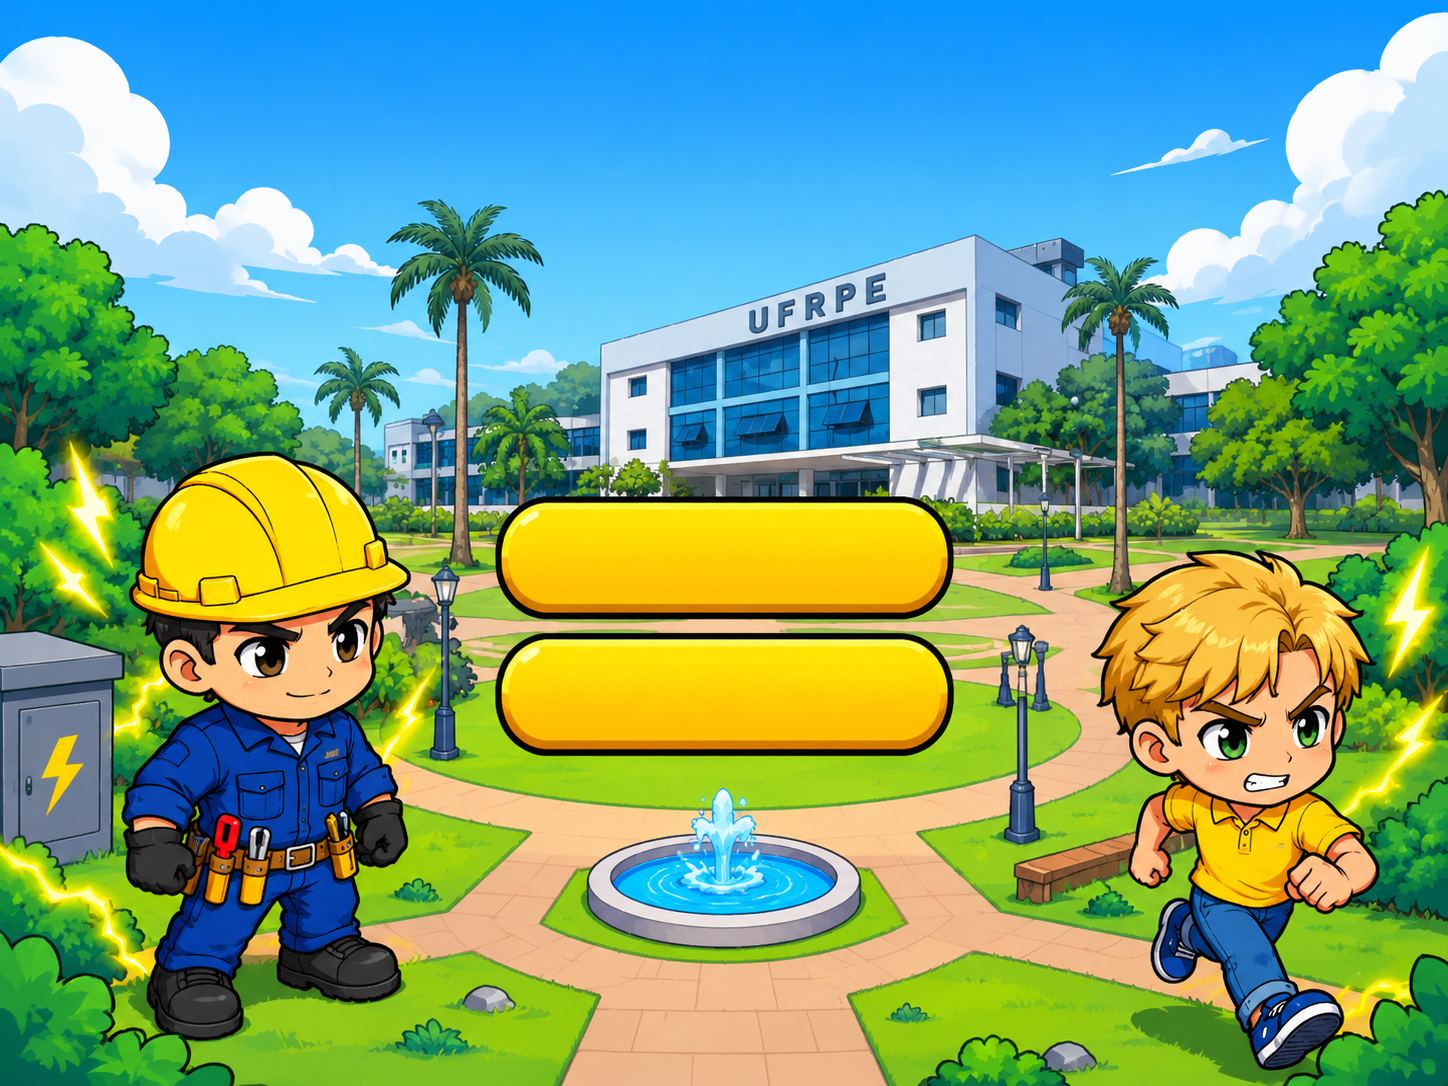
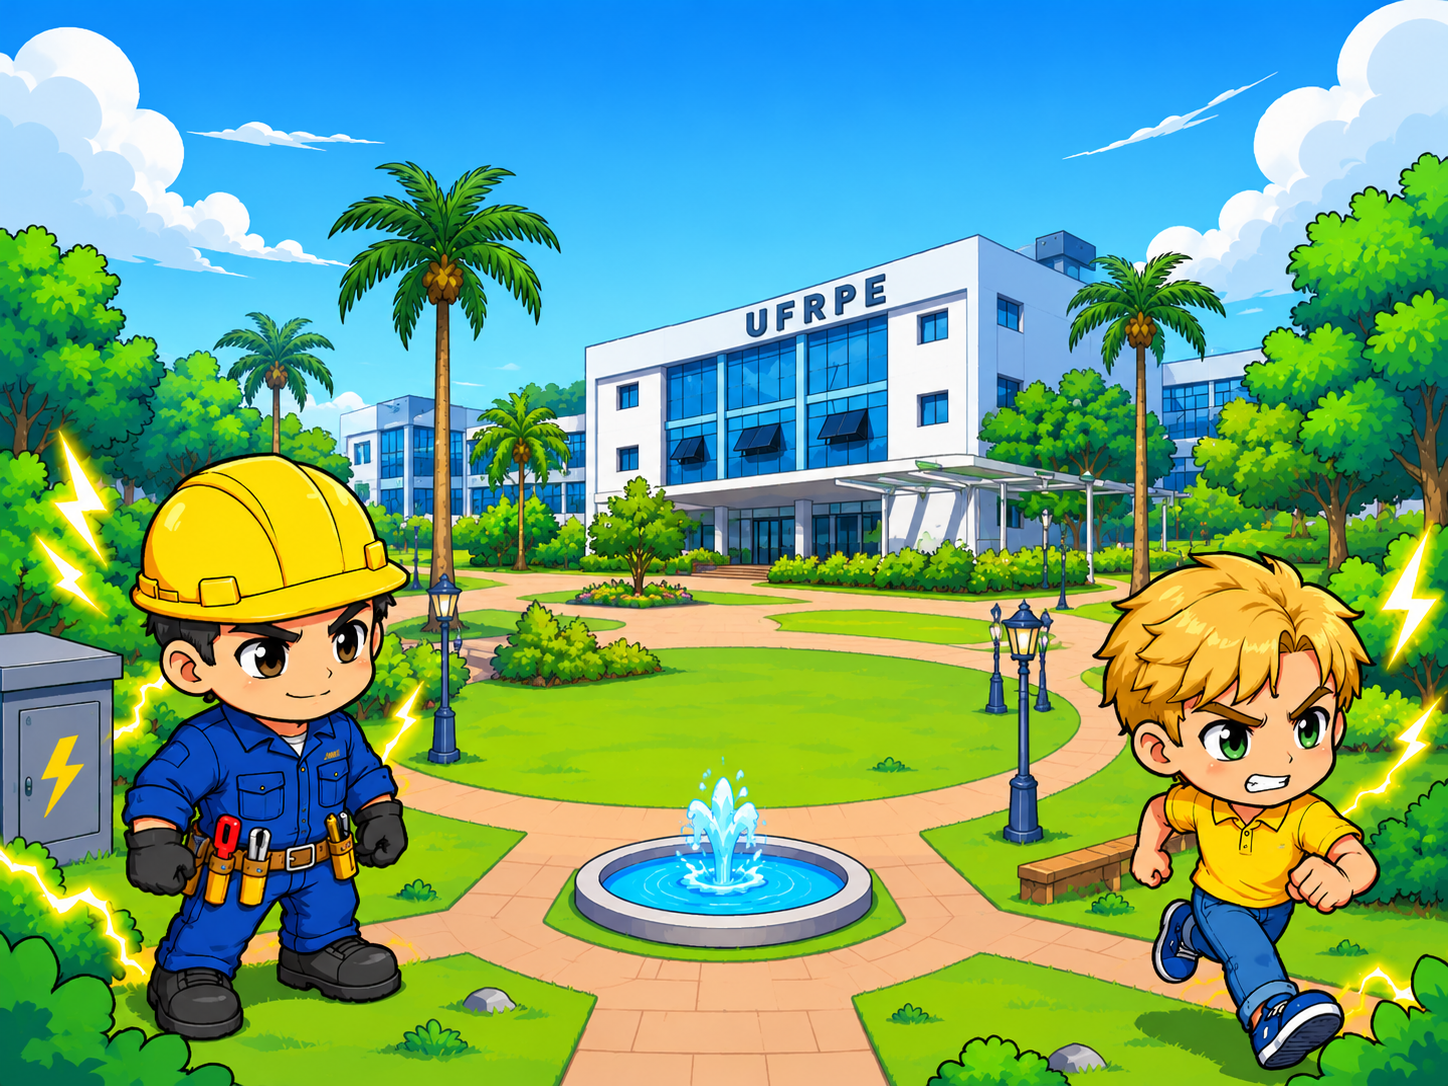
Fundo game ok

diff --git a/main.py b/main.py
@@ -13,26 +13,34 @@ img_aluno = pygame.image.load("aluno.png").convert_alpha()
 img_aluno = pygame.transform.scale(img_aluno, (40, 40))
 img_menu = pygame.image.load('menu.png').convert()
 img_menu = pygame.transform.scale(img_menu, (800, 600))
+img_mapa = pygame.image.load('mapa.png').convert()
+img_mapa = pygame.transform.scale(img_mapa, (800, 600))
 relogio = pygame.time.Clock()    #cria um relógio para determinar os frame/segundo
 
 #LISTA com os 3 geradores (um por departamento). "geradores" (plural) é a lista inteira
-geradores = [Gerador(50, 50, 40, 40), Gerador(700, 50, 40, 40), Gerador(375, 500, 40, 40)]
-
+geradores = [Gerador(50, 50, 40, 40), Gerador(700, 50, 40, 40), Gerador(50, 400, 40, 40)]
 bob = Heroi(100, 100, 40, 40, 100, 3, 'BOBCleyton', (0,0,255))    #objeto com a classe herói
 vilao = Inimigo(600, 400, 40, 40, 100, 1, 'Aluno', (255,0,0))    #objeto com a classe vilão
+
 fonte = pygame.font.Font(None, 72)
+fonte_titulo = pygame.font.Font(None, 80)
+fonte_botoes = pygame.font.Font(None, 50)
+fonte_botoes_fase = pygame.font.Font(None, 40)
+
 texto_derrota = fonte.render("GAME OVER", True, (255, 0, 111))
 texto_vitoria = fonte.render("VICTORY", True, (0, 255, 204))
-fonte_titulo = pygame.font.Font(None, 80)
 texto_titulo = fonte_titulo.render("BOBCleyton O Eletricista", True, (255, 255, 0))
+texto_jogar = fonte_botoes.render('JOGAR', True, (0, 0, 0))
+texto_sair = fonte_botoes.render('SAIR', True, (0,0,0))
+texto_fase1 = fonte_botoes_fase.render('FASE 1', True, (0,0,0))
+texto_fase2 = fonte_botoes_fase.render('FASE 2', True, (0,0,0))
+texto_fase3 = fonte_botoes_fase.render('FASE 3', True, (0,0,0))
 
 botao_jogar = pygame.Rect(290, 280, 220, 50)
 botao_sair = pygame.Rect(290, 355, 220, 50)
-
-fonte_botoes = pygame.font.Font(None, 50)
-texto_jogar = fonte_botoes.render('JOGAR', True, (0, 0, 0))
-texto_sair = fonte_botoes.render('SAIR', True, (0,0,0))
-
+botao_fase1 = pygame.Rect(100, 200, 150, 150)
+botao_fase2 = pygame.Rect(325, 200, 150, 150)
+botao_fase3 = pygame.Rect(550, 200, 150, 150)
 
 estado = 'menu'
 rodando = True
@@ -48,16 +56,28 @@ while rodando:    #loop para manter o jogo rodando
         tela.blit(texto_jogar, (botao_jogar.x + (botao_jogar.width - texto_jogar.get_width()) / 2, botao_jogar.y + (botao_jogar.height - texto_jogar.get_height()) / 2 + 5))
         tela.blit(texto_sair, (botao_sair.x + (botao_sair.width - texto_sair.get_width()) / 2, botao_sair.y + (botao_sair.height - texto_sair.get_height()) / 2 + 5))
 
+    if estado == 'fases':
+        tela.blit(img_menu, (0, 0))
+        pygame.draw.rect(tela, (255, 212, 20), botao_fase1)    #liberada
+        pygame.draw.rect(tela, (120, 120, 120), botao_fase2)   #bloqueada
+        pygame.draw.rect(tela, (120, 120, 120), botao_fase3)   #bloqueada
+        tela.blit(texto_fase1, (botao_fase1.x + (botao_fase1.width - texto_fase1.get_width()) / 2, botao_fase1.y + (botao_fase1.height - texto_fase1.get_height()) / 2))
+        tela.blit(texto_fase2, (botao_fase2.x + (botao_fase2.width - texto_fase2.get_width()) / 2, botao_fase2.y + (botao_fase2.height - texto_fase2.get_height()) / 2))
+        tela.blit(texto_fase3, (botao_fase3.x + (botao_fase3.width - texto_fase3.get_width()) / 2, botao_fase3.y + (botao_fase3.height - texto_fase3.get_height()) / 2))
+
     for evento in pygame.event.get():    #aqui guarda tudo que o usuário fizer dentro do jogo
         if evento.type == pygame.QUIT:    #mostra qual o tipo do evento acontecido (que é o de sair do jogo)
             rodando = False     #desliga o loop
         if evento.type == pygame.MOUSEBUTTONDOWN:
-            if botao_jogar.collidepoint(evento.pos):
-                estado = 'jogo'
-        if evento.type == pygame.MOUSEBUTTONDOWN:
-            if botao_sair.collidepoint(evento.pos):
-                rodando = False
-            
+            if estado == 'menu':
+                if botao_jogar.collidepoint(evento.pos):
+                    estado = 'fases'
+                elif botao_sair.collidepoint(evento.pos):
+                    rodando = False
+            elif estado == 'fases':
+                if botao_fase1.collidepoint(evento.pos):
+                    estado = 'jogo'
+
     teclas = pygame.key.get_pressed()    #aqui vai ser guardado todos os comandos do teclado
     if estado == 'jogo':
         if not game_over and not victory:
@@ -79,7 +99,7 @@ while rodando:    #loop para manter o jogo rodando
             if todos_consertados:                 #só chega aqui se nenhum estava quebrado
                 victory = True
 
-        tela.fill((88, 235, 52))    #apaga os rastros anteriores e pinta o fundo
+        tela.blit(img_mapa, (0, 0))    #apaga os rastros anteriores e pinta o fundo
 
         #DESENHO: desenha cada um dos 3 geradores (imagem quebrado ou ligado, escolhida dentro da classe)
         for gerador in geradores:
